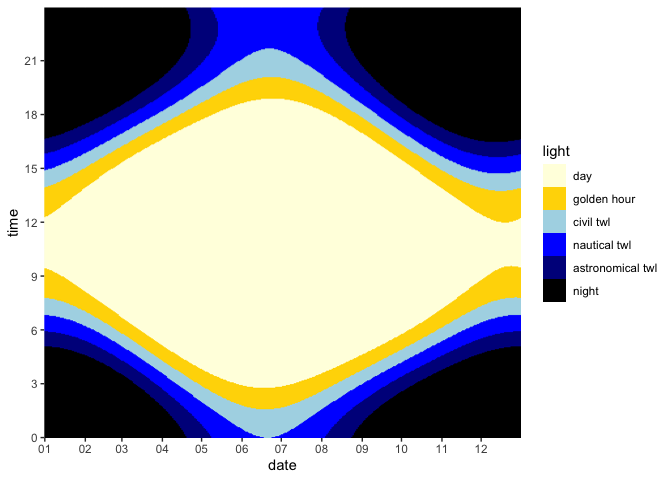
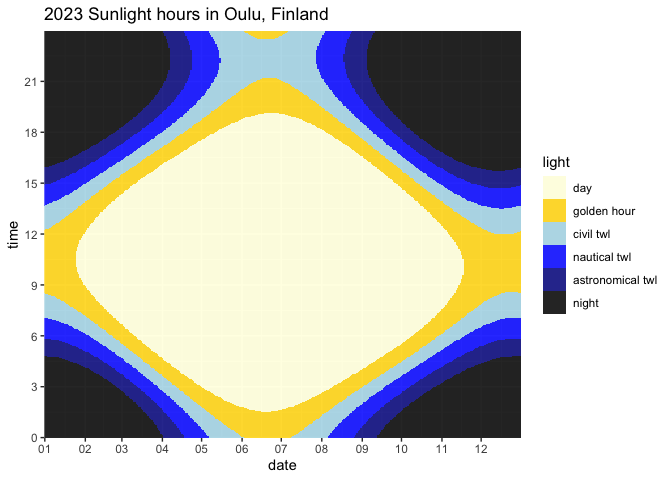
Change to a more interesting location

diff --git a/carpet.md b/carpet.md
@@ -1,14 +1,14 @@
-A temporal raster plot (carpet diagram) of sunshine based on
+A temporal raster plot (carpet diagram) of annual sunlight based on
 solarpos-cli data
 ================
 
 First, run [solarpos-cli](https://github.com/KlausBrunner/solarpos-cli)
 and capture its output in a CSV file. We’re getting position data for
-the entire year 2023 in Stockholm, Sweden. Depending on your setup, you
-may have to add the “java” command and an absolute path.
+the entire year 2023 in Oulu, Finland. Depending on your setup, you may
+have to add the “java” command and an absolute path.
 
 ``` sh
-solarpos-cli.jar 59.325 18.05 2023 --timezone UTC --deltat --format=csv position --step=180 > /tmp/sunpositions.csv
+solarpos-cli.jar 65.013 25.473 2023 --timezone UTC --deltat --format=csv position --step=180 > /tmp/sunpositions.csv
 ```
 
 Now read that CSV file, dropping what we don’t need and regrouping the
@@ -40,16 +40,16 @@ sunpath
     ## # A tibble: 175,200 × 3
     ##    zenith date        time
     ##     <dbl> <date>     <dbl>
-    ##  1   142. 2023-01-01  0   
-    ##  2   142. 2023-01-01  0.05
-    ##  3   141. 2023-01-01  0.1 
-    ##  4   141. 2023-01-01  0.15
-    ##  5   141. 2023-01-01  0.2 
-    ##  6   141. 2023-01-01  0.25
-    ##  7   141. 2023-01-01  0.3 
-    ##  8   140. 2023-01-01  0.35
-    ##  9   140. 2023-01-01  0.4 
-    ## 10   140. 2023-01-01  0.45
+    ##  1   135. 2023-01-01  0   
+    ##  2   135. 2023-01-01  0.05
+    ##  3   135. 2023-01-01  0.1 
+    ##  4   135. 2023-01-01  0.15
+    ##  5   134. 2023-01-01  0.2 
+    ##  6   134. 2023-01-01  0.25
+    ##  7   134. 2023-01-01  0.3 
+    ##  8   134. 2023-01-01  0.35
+    ##  9   134. 2023-01-01  0.4 
+    ## 10   133. 2023-01-01  0.45
     ## # … with 175,190 more rows
 
 With the nicely prepared data, plotting should be straightforward now.
@@ -93,7 +93,14 @@ from continuous to categorical first, and use a manual colour mapping.
 sunpath <- sunpath |>
   mutate(light = cut(
     zenith,
-    labels = c("day", "golden hour", "civil twl", "nautical twl", "astronomical twl", "night"),
+    labels = c(
+      "day",
+      "golden hour",
+      "civil twl",
+      "nautical twl",
+      "astronomical twl",
+      "night"
+    ),
     breaks = c(0, 84, 90, 96, 102, 108, 180)
   ))
 
@@ -103,26 +110,26 @@ sunpath
     ## # A tibble: 175,200 × 4
     ##    zenith date        time light
     ##     <dbl> <date>     <dbl> <fct>
-    ##  1   142. 2023-01-01  0    night
-    ##  2   142. 2023-01-01  0.05 night
-    ##  3   141. 2023-01-01  0.1  night
-    ##  4   141. 2023-01-01  0.15 night
-    ##  5   141. 2023-01-01  0.2  night
-    ##  6   141. 2023-01-01  0.25 night
-    ##  7   141. 2023-01-01  0.3  night
-    ##  8   140. 2023-01-01  0.35 night
-    ##  9   140. 2023-01-01  0.4  night
-    ## 10   140. 2023-01-01  0.45 night
+    ##  1   135. 2023-01-01  0    night
+    ##  2   135. 2023-01-01  0.05 night
+    ##  3   135. 2023-01-01  0.1  night
+    ##  4   135. 2023-01-01  0.15 night
+    ##  5   134. 2023-01-01  0.2  night
+    ##  6   134. 2023-01-01  0.25 night
+    ##  7   134. 2023-01-01  0.3  night
+    ##  8   134. 2023-01-01  0.35 night
+    ##  9   134. 2023-01-01  0.4  night
+    ## 10   133. 2023-01-01  0.45 night
     ## # … with 175,190 more rows
 
 ``` r
 plot <- ggplot(sunpath, aes(date, time)) +
-  geom_raster(aes(fill = light), interpolate = TRUE) +
+  geom_raster(aes(fill = light), alpha = 0.85) +
   scale_y_continuous(expand = c(0, 0), breaks = seq(0, 24, 3)) +
+  labs(title = "2023 Sunlight hours in Oulu, Finland") +
   scale_x_date(
     labels = date_format("%m"),
     breaks = breaks_width("month"),
-    
     expand = c(0, 0)
   ) +
   scale_fill_manual(
@@ -143,7 +150,7 @@ plot
 
 Doesn’t have the same mysterious vibe as the previous ones, but it’s a
 bit more useful now: we can clearly see those very long Northern summer
-days and depressingly short winter days, peaking on 21 June and 21
+days and depressingly long winter nights, peaking on 21 June and 21
 December, respectively. Of course, don’t forget all times are UTC. You
 can also tell solarpos-cli to use the proper local timezone
-(Europe/Stockholm).
+(Europe/Helsinki).
